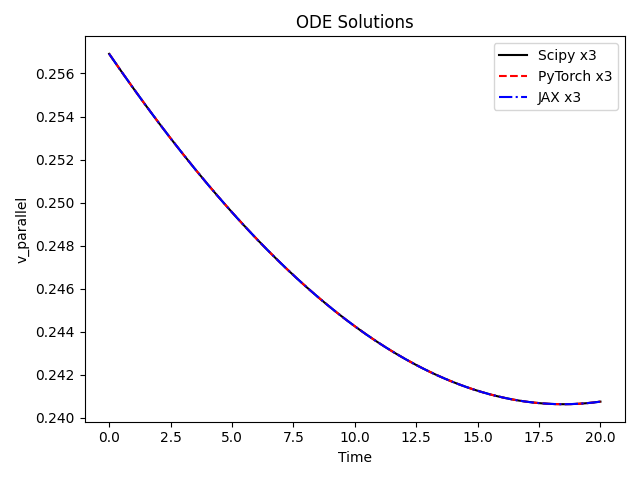
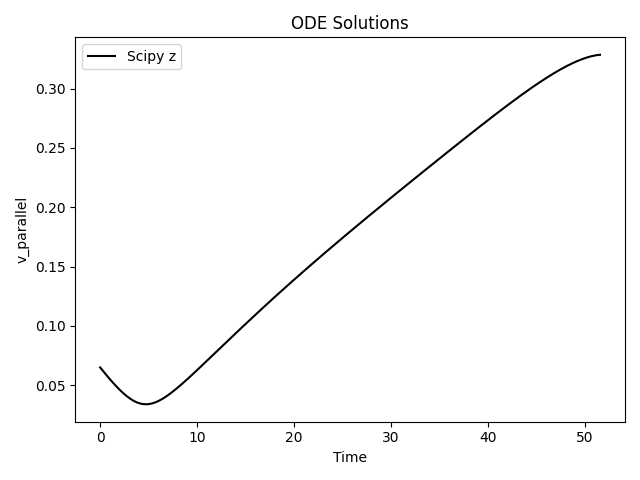
Small refactoring of the code. Particle going to the magnetic axis

diff --git a/main_odes.py b/main_odes.py
@@ -1,24 +1,17 @@
 import os
 import time
 import numpy as np
-from pathlib import Path
 import matplotlib.pyplot as plt
+from pathlib import Path
 from solver import solve_with_scipy, solve_with_pytorch, solve_with_jax
 from jacobi import compute_jacobian_scipy, compute_jacobian_torch, compute_jacobian_jax
 from differences import compute_diff
-from params_and_model import initial_conditions, tmin, tmax, nt, a_initial, model, iota, vpar_sign, Lambda
-# import torch
-# torch.set_default_dtype(torch.float64)
+from params_and_model import (
+    initial_conditions, tmin, tmax, nt, a_initial, model, iota, vpar_sign, Lambda,
+    solver_models, variables, label_styles
+)
 from jax.config import config
 config.update("jax_enable_x64", True)
-
-solvers = [solve_with_scipy, solve_with_pytorch, solve_with_jax]
-jacobi_computers = [compute_jacobian_scipy, compute_jacobian_torch, compute_jacobian_jax]
-labels = ["Scipy", "PyTorch", "JAX"]
-label_styles = [['k-','k*'], ['r--','rx'], ['b-.','b+']]
-variables = ['x', 'y', 'z']
-num_functions = len(initial_conditions)
-functions = [f"x{i+1}" for i in range(num_functions)]
 
 def compute_and_time(func):
     start = time.time()
@@ -26,19 +19,27 @@ def compute_and_time(func):
     return result, time.time() - start
 
 def main(results_path='results'):
-    w, times_solve = zip(*[compute_and_time(solver) for solver in solvers])
-    Jacobian, times_jacobi = zip(*[compute_and_time(jacobian) for jacobian in jacobi_computers])
-    diffs = compute_diff()
+    solver_functions = {
+        "Scipy": (solve_with_scipy, compute_jacobian_scipy),
+        "PyTorch": (solve_with_pytorch, compute_jacobian_torch),
+        "JAX": (solve_with_jax, compute_jacobian_jax)
+    }
+
+    solvers = [solver_functions.get(solver, (None, None))[0] for solver in solver_models]
+    jacobi_computers = [solver_functions.get(solver, (None, None))[1] for solver in solver_models]
+
+    w_solvers, times_solve = zip(*[compute_and_time(solver) for solver in solvers])
+    Jacobian_solvers, times_jacobi = zip(*[compute_and_time(jacobian) for jacobian in jacobi_computers])
+
+    diffs = compute_diff(solvers, jacobi_computers)
 
     t = np.linspace(tmin, tmax, nt)
 
-    for i, func in enumerate(functions):
+    for i, func in enumerate(variables):
         plt.figure()
-        for w_i, label, ls in zip(w, labels, label_styles):
-            if label == 'PyTorch':
-                plt.plot(t, w_i[:, i].detach().numpy(), ls[0], label=f'{label} {func}')
-            else:
-                plt.plot(t, w_i[:, i], ls[0], label=f'{label} {func}')
+        for w_i, label, ls in zip(w_solvers, solver_models, label_styles):
+            w_i_val = w_i[:, i].detach().numpy() if label == 'PyTorch' else w_i[:, i]
+            plt.plot(t, w_i_val, ls[0], label=f'{label} {func}')
         plt.xlabel('Time')
         plt.ylabel(f'{func}')
         plt.title('ODE Solutions')
@@ -47,8 +48,8 @@ def main(results_path='results'):
         plt.savefig(os.path.join(results_path, f'initial_solution_timetrace_{model}_{func}.png'))
 
     plt.figure()
-    for Jacobian_i, label, ls in zip(Jacobian, labels, label_styles):
-        for i, func in enumerate(functions):
+    for Jacobian_i, label, ls in zip(Jacobian_solvers, solver_models, label_styles):
+        for i, func in enumerate(variables):
             plt.plot(a_initial, Jacobian_i[i, :], ls[1], label=f'{label} Jacobian {func}', markersize=10)
     plt.xlabel('Parameter a')
     plt.ylabel('Jacobian Value')
@@ -57,23 +58,12 @@ def main(results_path='results'):
     plt.tight_layout()
     plt.savefig(os.path.join(results_path, f'jacobians_a_{model}.png'))
 
-    plt.figure()
-    p1 = plt.bar(labels, times_solve, label='Solving ODE')
-    p2 = plt.bar(labels, times_jacobi, bottom=times_solve, label='Computing Jacobian')
-    plt.xlabel('Library')
-    plt.ylabel('Time (s)')
-    plt.tight_layout()
-    plt.legend()
-    plt.savefig(os.path.join(results_path, f'time_solveJacobian_{model}.png'))
-
     fig = plt.figure()
     if model == 'lorenz':
         ax = fig.add_subplot(111, projection='3d')
-        for w_i, label, ls in zip(w, labels, label_styles):
-            if label == 'PyTorch':
-                ax.plot(w_i[:, 0].detach().numpy(), w_i[:, 1].detach().numpy(), w_i[:, 2].detach().numpy(), ls[0], label=f'{label}')
-            else:
-                ax.plot(w_i[:, 0], w_i[:, 1], w_i[:, 2], ls[0], label=f'{label}')
+        for w_i, label, ls in zip(w_solvers, solver_models, label_styles):
+            w_i_val = w_i.detach().numpy() if label == 'PyTorch' else w_i
+            ax.plot(w_i_val[:, 0], w_i_val[:, 1], w_i_val[:, 2], ls[0], label=f'{label}')
         ax.set_xlabel(variables[0])
         ax.set_ylabel(variables[1])
         ax.set_zlabel(variables[2])
@@ -82,14 +72,11 @@ def main(results_path='results'):
         plt.savefig(os.path.join(results_path, f'initial_solution_3D_{model}.png'))
     elif model == 'guiding-center':
         plt.figure()
-        for w_i, label, ls in zip(w, labels, label_styles):
-            if label == 'PyTorch':
-                alpha = w_i[:, 1].detach().numpy()-iota*w_i[:, 2].detach().numpy()
-                x = w_i[:, 0].detach().numpy()
-            else:
-                alpha = w_i[:, 1]-iota*w_i[:, 2]
-                x = w_i[:, 0]
-            plt.plot(np.sqrt(x)*np.cos(alpha), np.sqrt(x)*np.sin(alpha), ls[0], label=f'{label} {func}')
+        for w_i, label, ls in zip(w_solvers, solver_models, label_styles):
+            w_i_val = w_i.detach().numpy() if label == 'PyTorch' else w_i
+            alpha = w_i_val[:, 1] - iota * w_i_val[:, 2]
+            x = w_i_val[:, 0]
+            plt.plot(np.sqrt(x) * np.cos(alpha), np.sqrt(x) * np.sin(alpha), ls[0], label=f'{label} {func}')
         plt.xlabel(f'sqrt(psi)*cos(alpha)')
         plt.ylabel(f'sqrt(psi)*sin(alpha)')
         plt.title('ODE Solutions')
@@ -98,17 +85,13 @@ def main(results_path='results'):
         plt.savefig(os.path.join(results_path, f'initial_solution_2D_{model}.png'))
 
         plt.figure()
-        for w_i, label, ls in zip(w, labels, label_styles):
-            if label == 'PyTorch':
-                x = w_i[:, 0].detach().numpy()
-                y = w_i[:, 1].detach().numpy()
-                z = w_i[:, 2].detach().numpy()
-            else:
-                x = w_i[:, 0]
-                y = w_i[:, 1]
-                z = w_i[:, 2]
+        for w_i, label, ls in zip(w_solvers, solver_models, label_styles):
+            w_i_val = w_i.detach().numpy() if label == 'PyTorch' else w_i
+            x = w_i_val[:, 0]
+            y = w_i_val[:, 1]
+            z = w_i_val[:, 2]
             B_val = a_initial[0] + a_initial[1] * np.sqrt(x) * np.cos(y) + a_initial[2] * np.sin(z)
-            v_parallel = vpar_sign*np.sqrt(1-Lambda*B_val)
+            v_parallel = vpar_sign * np.sqrt(1 - Lambda * B_val)
             plt.plot(t, v_parallel, ls[0], label=f'{label} {func}')
         plt.xlabel('Time')
         plt.ylabel(f'v_parallel')
@@ -118,15 +101,11 @@ def main(results_path='results'):
         plt.savefig(os.path.join(results_path, f'initial_solution_vparallel_{model}.png'))
 
         plt.figure()
-        for w_i, label, ls in zip(w, labels, label_styles):
-            if label == 'PyTorch':
-                x = w_i[:, 0].detach().numpy()
-                y = w_i[:, 1].detach().numpy()
-                z = w_i[:, 2].detach().numpy()
-            else:
-                x = w_i[:, 0]
-                y = w_i[:, 1]
-                z = w_i[:, 2]
+        for w_i, label, ls in zip(w_solvers, solver_models, label_styles):
+            w_i_val = w_i.detach().numpy() if label == 'PyTorch' else w_i
+            x = w_i_val[:, 0]
+            y = w_i_val[:, 1]
+            z = w_i_val[:, 2]
             B_val = a_initial[0] + a_initial[1] * np.sqrt(x) * np.cos(y) + a_initial[2] * np.sin(z)
             plt.plot(t, B_val, ls[0], label=f'{label} {func}')
         plt.xlabel('Time')
@@ -145,10 +124,8 @@ def main(results_path='results'):
         print(f"  Relative difference between {diff_label} Jacobians: {diff_values[1]:.4e}")
         print(f"  -----------------------------")
 
-    print('')
-
     print('Analyzing time taken for solving ODE and computing Jacobian:')
-    for time_solve, time_jacobian, label in zip(times_solve, times_jacobi, labels):
+    for time_solve, time_jacobian, label in zip(times_solve, times_jacobi, solver_models):
         print(f"  Time taken by {label} solve: {time_solve:.4f} seconds")
         print(f"  Time taken by {label} jacobian: {time_jacobian:.4f} seconds")
         print(f"  -----------------------------")

diff --git a/main_diffopt.py b/main_diffopt.py
@@ -8,14 +8,12 @@ from mpl_toolkits.mplot3d import Axes3D
 from jax.config import config
 config.update("jax_enable_x64", True)
 
-from params_and_model import tmin, tmax, nt, a_initial, initial_conditions, model
+from params_and_model import tmin, tmax, nt, a_initial, initial_conditions, model, solver_models, variables
 from solver import solve_with_scipy, solve_with_pytorch, solve_with_jax
 from optimizers import optimize_with_scipy, optimize_with_pytorch, optimize_with_jax
 
-labels = ["Scipy", "PyTorch", "JAX"]
 label_styles = [['k-', 'k*'], ['r--', 'rx'], ['b-.', 'b+']]
 num_functions = len(initial_conditions)
-variables = ['x', 'y', 'z']
 
 def main(results_path='results'):
     scipy_optimized_a, time_scipy, loss_scipy = optimize_with_scipy(results_path)
@@ -39,18 +37,18 @@ def main(results_path='results'):
         col = i % 2
 
         if i < 3:
-            for j in range(len(labels)):
-                axes[row, col].plot(t, initial_solutions[j][:, i], label_styles[j][0], label=f'{labels[j]} Initial')
-                axes[row, col].plot(t, optimized_solutions[j][:, i], label_styles[j][1], label=f'{labels[j]} Optimized')
+            for j in range(len(solver_models)):
+                axes[row, col].plot(t, initial_solutions[j][:, i], label_styles[j][0], label=f'{solver_models[j]} Initial')
+                axes[row, col].plot(t, optimized_solutions[j][:, i], label_styles[j][1], label=f'{solver_models[j]} Optimized')
 
             axes[row, col].set_xlabel('Time')
             axes[row, col].set_ylabel(f'{variables[i]}')
             axes[row, col].legend()
         else:
             ax_3d = fig.add_subplot(2, 2, 4, projection='3d')
-            for j in range(len(labels)):
-                ax_3d.plot(initial_solutions[j][:, 0],initial_solutions[j][:, 1],initial_solutions[j][:, 2], label_styles[j][0],label=f'{labels[j]} Initial')
-                ax_3d.plot(optimized_solutions[j][:, 0],optimized_solutions[j][:, 1],optimized_solutions[j][:, 2], label_styles[j][1],label=f'{labels[j]} Optimized')
+            for j in range(len(solver_models)):
+                ax_3d.plot(initial_solutions[j][:, 0],initial_solutions[j][:, 1],initial_solutions[j][:, 2], label_styles[j][0],label=f'{solver_models[j]} Initial')
+                ax_3d.plot(optimized_solutions[j][:, 0],optimized_solutions[j][:, 1],optimized_solutions[j][:, 2], label_styles[j][1],label=f'{solver_models[j]} Optimized')
             ax_3d.set_xlabel(f'{variables[0]}')
             ax_3d.set_ylabel(f'{variables[1]}')
             ax_3d.set_zlabel(f'{variables[2]}')
@@ -73,7 +71,7 @@ def main(results_path='results'):
     plt.figure(figsize=(8, 6))
     time_data = [time_scipy, time_pytorch, time_jax]
     loss_data = [loss_scipy[-1], loss_pytorch[-1], loss_jax[-1]]
-    bars = plt.bar(labels, time_data)
+    bars = plt.bar(solver_models, time_data)
     
     for bar, loss in zip(bars, loss_data):
         height = bar.get_height()
@@ -87,7 +85,7 @@ def main(results_path='results'):
 
     plt.figure(figsize=(8, 6))
     loss_data = [loss_scipy, loss_pytorch, loss_jax]
-    [plt.plot(np.log(loss_data[i]), label_styles[i][1], label=labels[i]) for i in range(len(labels))]
+    [plt.plot(np.log(loss_data[i]), label_styles[i][1], label=solver_models[i]) for i in range(len(solver_models))]
     plt.xlabel('Iterations')
     plt.ylabel('Ln(Loss)')
     plt.tight_layout()

diff --git a/differences.py b/differences.py
@@ -1,29 +1,16 @@
 # differences.py
 import numpy as np
-from solver import solve_with_scipy, solve_with_pytorch, solve_with_jax
-from jacobi import compute_jacobian_scipy, compute_jacobian_torch, compute_jacobian_jax
 
-def compute_diff():
-    w_scipy = solve_with_scipy()
-    w_torch = solve_with_pytorch().detach().numpy()
-    w_jax = solve_with_jax()
+def compute_diff(solvers, jacobi_computers):
+    w_solvers = [solver() for solver in solvers]
+    Jacobian_solvers = [jacobi_computer() for jacobi_computer in jacobi_computers]
 
-    Jacobian_scipy = compute_jacobian_scipy()
-    Jacobian_torch = compute_jacobian_torch()
-    Jacobian_jax = compute_jacobian_jax()
-
-    diff_w_scipy_torch = np.linalg.norm(w_scipy - w_torch) / np.linalg.norm(w_scipy)
-    diff_w_scipy_jax = np.linalg.norm(w_scipy - w_jax) / np.linalg.norm(w_scipy)
-    diff_w_torch_jax = np.linalg.norm(w_torch - w_jax) / np.linalg.norm(w_torch)
-
-    diff_jacobian_scipy_torch = np.linalg.norm(Jacobian_scipy - Jacobian_torch) / np.linalg.norm(Jacobian_scipy)
-    diff_jacobian_scipy_jax = np.linalg.norm(Jacobian_scipy - Jacobian_jax) / np.linalg.norm(Jacobian_scipy)
-    diff_jacobian_torch_jax = np.linalg.norm(Jacobian_torch - Jacobian_jax) / np.linalg.norm(Jacobian_torch)
-
-    diffs = {
-        "scipy-torch": (diff_w_scipy_torch, diff_jacobian_scipy_torch),
-        "scipy-jax": (diff_w_scipy_jax, diff_jacobian_scipy_jax),
-        "torch-jax": (diff_w_torch_jax, diff_jacobian_torch_jax),
-    }
+    diffs = {}
+    for i in range(len(w_solvers)):
+        for j in range(i + 1, len(w_solvers)):
+            diff_w = np.linalg.norm(w_solvers[i] - w_solvers[j]) / np.linalg.norm(w_solvers[i])
+            diff_jacobian = np.linalg.norm(Jacobian_solvers[i] - Jacobian_solvers[j]) / np.linalg.norm(Jacobian_solvers[i])
+            solver_pair = f"{solvers[i].__name__}-{solvers[j].__name__}"
+            diffs[solver_pair] = (diff_w, diff_jacobian)
 
     return diffs

diff --git a/params_and_model.py b/params_and_model.py
@@ -3,9 +3,12 @@ import numpy as np
 import jax.numpy as jnp
 
 model = 'guiding-center' # 'lorenz' or 'guiding-center'
+solver_models = ["Scipy"]#, "PyTorch", "JAX"]
+label_styles = [['k-','k*'], ['r--','rx'], ['b-.','b+']]
 
 # Parameters and initial conditions
 if model == 'lorenz':
+    variables = ['x', 'y', 'z']
     initial_conditions = [5., 5., 5.]
     a_initial = [10., 20., 8./3.]  # sigma, rho, beta
     tmin = 0
@@ -18,14 +21,15 @@ if model == 'lorenz':
     learning_rate_torch = 1.1
     learning_rate_jax = 0.2
 elif model == 'guiding-center':
+    variables = ['x', 'y', 'z']
     initial_conditions = [0.7, 0.1, 0.1]
-    a_initial = [1.0, 0.2, 0.01]  # B0, B1c, B01s
+    a_initial = [1.0, 0.2, 0.05]  # B0, B1c, B01s
     vpar_sign = 1
-    Lambda = 0.8
+    Lambda = 0.85
     iota = 0.41
     G = 2*np.pi
     tmin = 0
-    tmax = 20
+    tmax = 150
     nt_per_time_unit = 10
     n_steps_to_compute_loss = 30
     x_target = initial_conditions[0]
